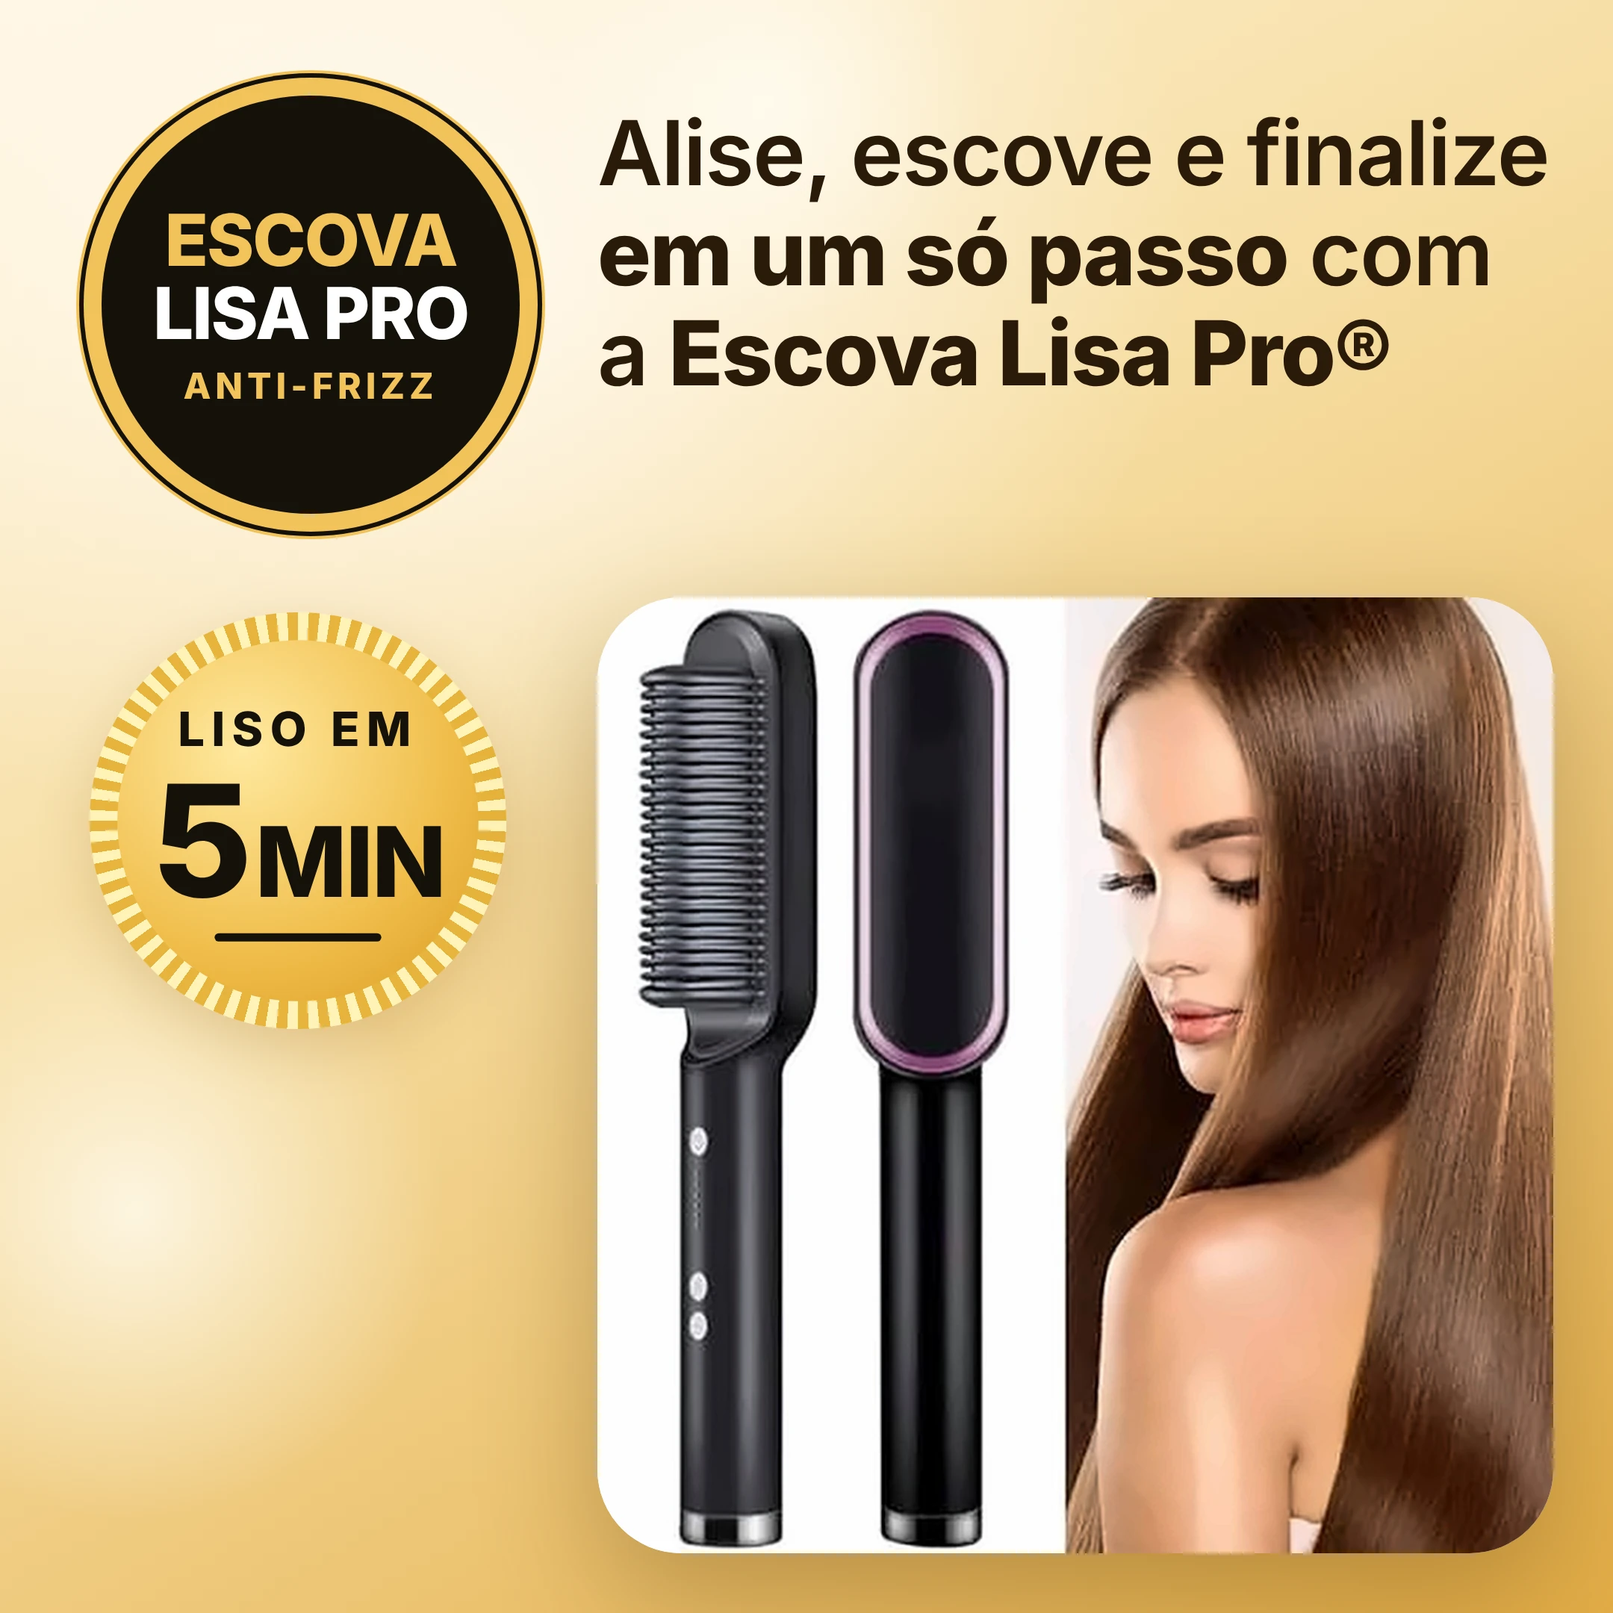
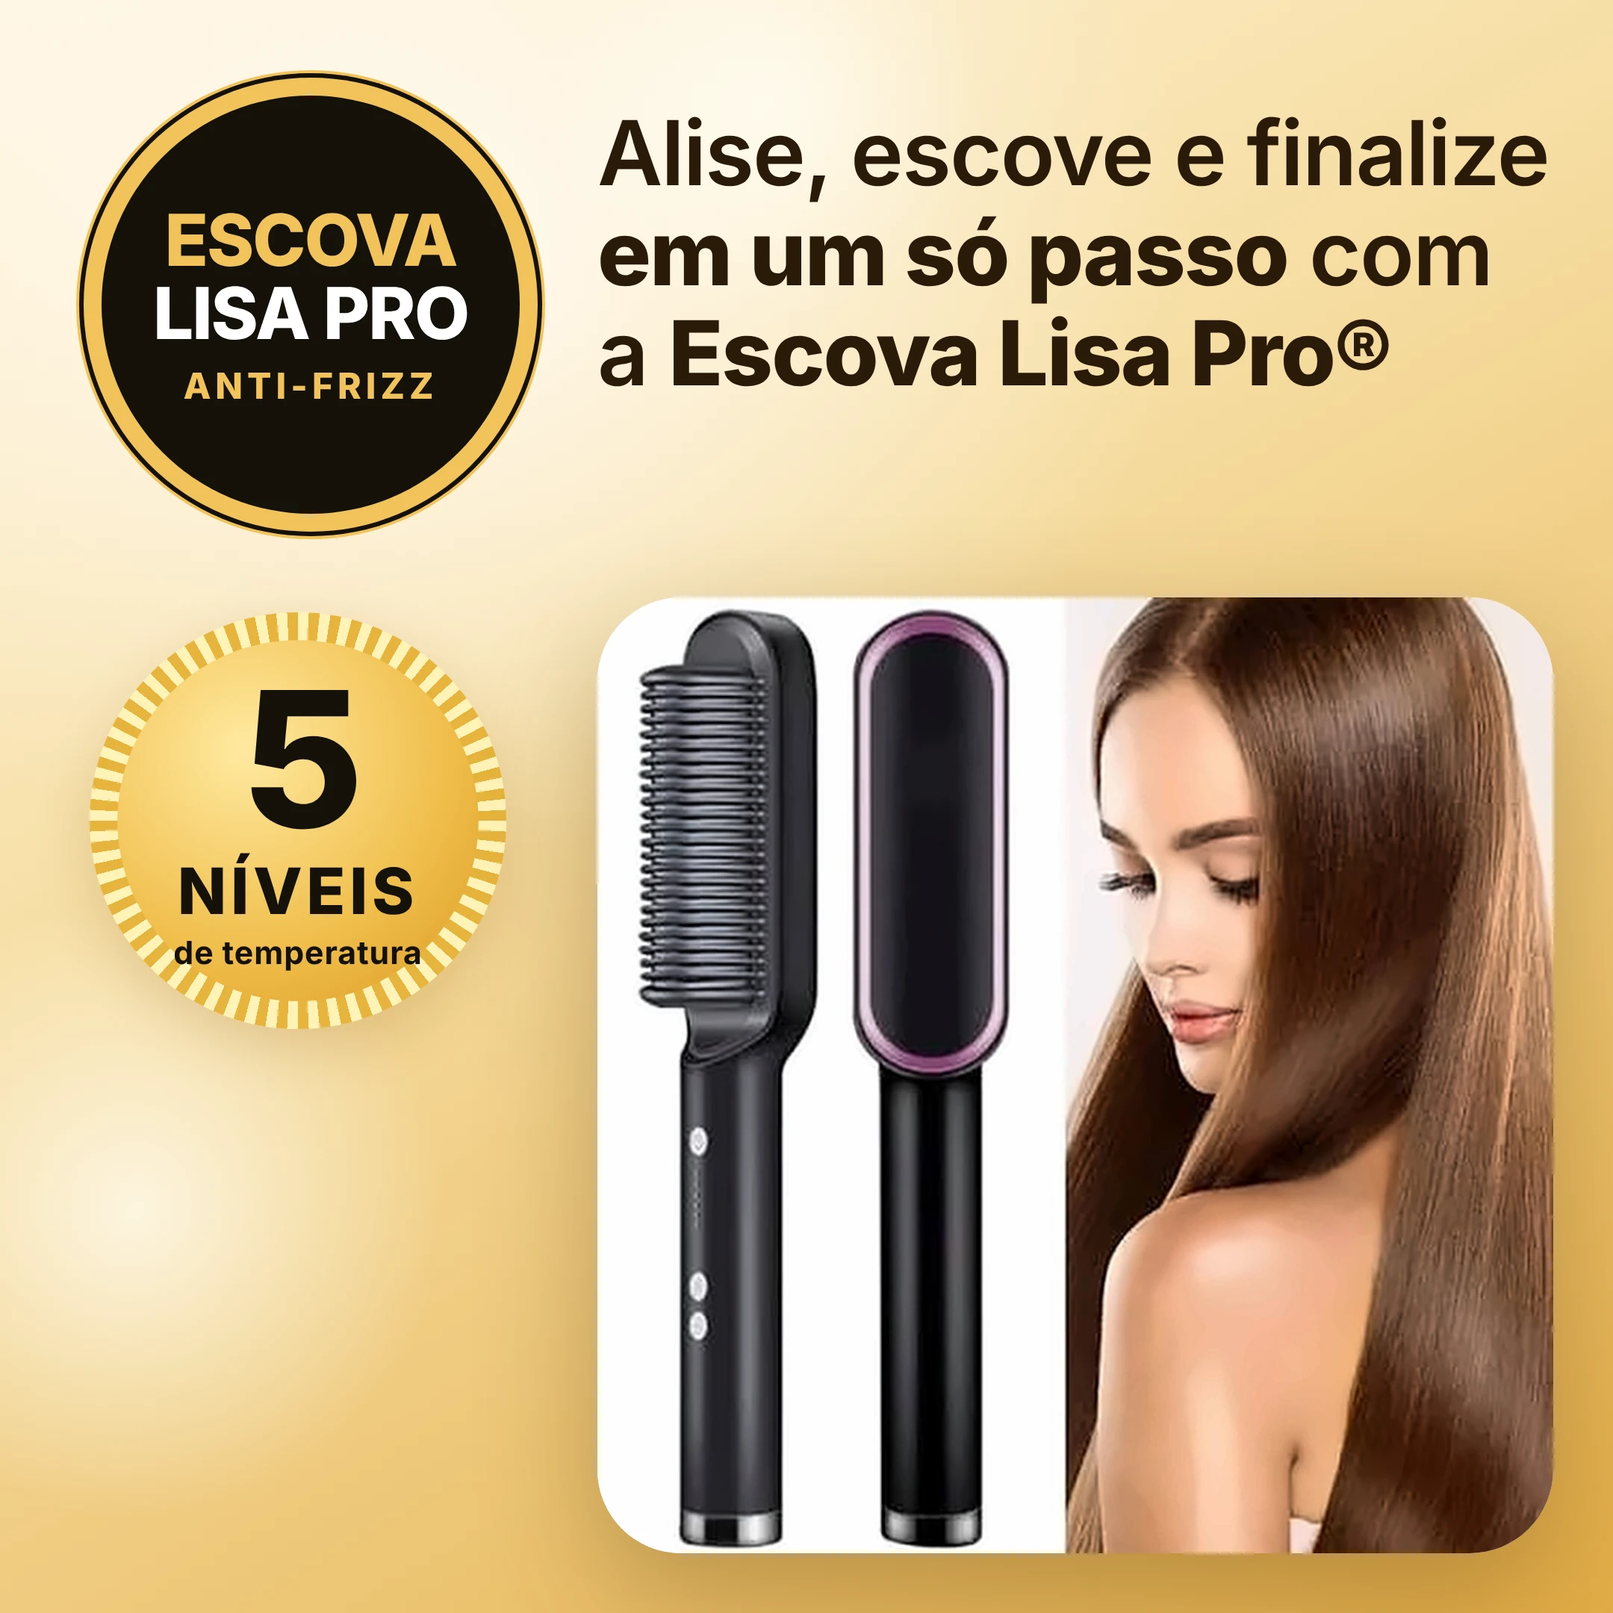
Selo da capa: 5 níveis de temperatura no lugar de liso em 5 min
Claude-Session: https://claude.ai/code/session_01KeLqAk6fDKmQByf4pKhdDU

Changed region(s): [[0.0931, 0.4032, 0.2792, 0.6204]]

diff --git a/index.html b/index.html
@@ -1,7 +1,7 @@
 <!doctype html>
-<html lang="pt-BR"><head><meta charset="utf-8"><meta name="viewport" content="width=device-width,initial-scale=1"><meta name="theme-color" content="#faf8f3"><title>Escova Lisa Pro | Escova Alisadora 5 em 1</title><meta name="description" content="Escova Alisadora 5 em 1: alisa, escova e finaliza em um só passo. 5 níveis de temperatura, bivolt automático e frete grátis. R$ 110,00."><link rel="stylesheet" href="styles.css?v=23"><link rel="preload" as="image" href="gallery-01.webp?v=23"><script src="data.js?v=23" defer></script><script src="app.js?v=23" defer></script></head>
+<html lang="pt-BR"><head><meta charset="utf-8"><meta name="viewport" content="width=device-width,initial-scale=1"><meta name="theme-color" content="#faf8f3"><title>Escova Lisa Pro | Escova Alisadora 5 em 1</title><meta name="description" content="Escova Alisadora 5 em 1: alisa, escova e finaliza em um só passo. 5 níveis de temperatura, bivolt automático e frete grátis. R$ 110,00."><link rel="stylesheet" href="styles.css?v=24"><link rel="preload" as="image" href="gallery-01.webp?v=24"><script src="data.js?v=24" defer></script><script src="app.js?v=24" defer></script></head>
 <body><div class="topbar">Alisa, escova e finaliza em um só passo</div><header class="header"><span class="header-note">Cabelo liso e macio<br>todos os dias</span></header>
-<main class="layout"><div class="left"><section class="gallery" aria-label="Imagens do produto"><div class="gallery-main is-cover"><img id="main-image" src="gallery-01.webp?v=23" alt="Escova Alisadora 5 em 1 — imagem principal" width="900" height="900" fetchpriority="high"><span class="gallery-label">ESCOVA LISA PRO</span><span class="cover-badge" id="cover-badge"><b>FRETE GRÁTIS</b><small>para todo o Brasil</small></span></div><div class="thumbnails"><button class="thumb" type="button" aria-label="Ver imagem 1" aria-pressed="true"><img src="gallery-01.webp?v=23" alt="Miniatura 1" width="1080" height="1080" decoding="async"></button><button class="thumb" type="button" aria-label="Ver imagem 2" aria-pressed="false"><img src="gallery-04.webp?v=23" alt="Miniatura 2" width="1080" height="1080" decoding="async"></button><button class="thumb" type="button" aria-label="Ver imagem 3" aria-pressed="false"><img src="gallery-02.webp?v=23" alt="Miniatura 3" width="1080" height="1080" decoding="async"></button><button class="thumb" type="button" aria-label="Ver imagem 4" aria-pressed="false"><img src="gallery-03.webp?v=23" alt="Miniatura 4" width="1080" height="1080" decoding="async"></button><button class="thumb" type="button" aria-label="Ver imagem 5" aria-pressed="false"><img src="gallery-05.webp?v=23" alt="Miniatura 5" width="1080" height="1080" decoding="async"></button><button class="thumb" type="button" aria-label="Ver imagem 6" aria-pressed="false"><img src="gallery-06.webp?v=23" alt="Miniatura 6" width="1080" height="1080" decoding="async"></button></div><p class="gallery-caption">Selecione uma imagem para conhecer os detalhes.</p></section>
-<section class="description" aria-labelledby="description-heading"><div class="section-heading"><div><span class="eyebrow">Conheça cada detalhe</span><h2 id="description-heading">Cabelo liso, sem complicação.</h2></div><span class="number" aria-hidden="true">01</span></div><div class="story"><figure><img src="banner-01.webp?v=23" width="2160" alt="Oferta Escova Alisadora 5 em 1" loading="lazy" decoding="async"></figure><figure class="has-seal"><img src="banner-02.webp?v=23" width="2160" alt="Cabelos lisos e impecáveis todos os dias" loading="lazy" decoding="async"><img class="seal-anim" src="seal-niveis.png?v=23" alt="" aria-hidden="true" style="left:59.815%;top:54.306%;width:25.741%" loading="lazy"></figure><figure><img src="banner-03.webp?v=23" width="2160" alt="Cabelos lisos em minutos" loading="lazy" decoding="async"></figure><figure><video id="produto-video" controls playsinline preload="metadata" poster="poster.jpg"><source src="video-escova.webm" type="video/webm"><source src="video-escova.mp4" type="video/mp4"></video></figure><figure class="reel"><video id="reel-video" controls playsinline preload="metadata" poster="poster-reel.jpg?v=23"><source src="video-reel.webm?v=23" type="video/webm"><source src="video-reel.mp4?v=23" type="video/mp4"></video></figure><figure><img src="banner-04.webp?v=23" width="2160" alt="Prática, potente e fácil de usar" loading="lazy" decoding="async"></figure><div class="mid-cta"><a class="cta" href="https://pay.kaiross.com.br/dmLbLVXUfgyq">COMPRAR AGORA</a><p>Frete grátis · R$ 110,00</p></div><figure class="has-seal"><img src="banner-05.webp?v=23" width="2160" alt="Funciona em todos os tipos de cabelo" loading="lazy" decoding="async"><img class="seal-anim" src="seal-bivolt.png?v=23" alt="" aria-hidden="true" style="left:72.315%;top:70.13%;width:22.037%" loading="lazy"></figure><figure><img src="banner-10.webp?v=23" width="2160" alt="Escova Lisa Pro" loading="lazy" decoding="async"></figure><figure><img src="banner-06.webp?v=23" width="2160" alt="Por que a Escova Lisa Pro é diferente" loading="lazy" decoding="async"></figure><figure><img src="banner-07.webp?v=23" width="2160" alt="Do cabelo bagunçado ao liso em minutos" loading="lazy" decoding="async"></figure><figure class="ba"><span class="ba-eyebrow">Antes e depois</span><h3>Do volume ao <b>liso</b></h3><div class="ba-grid"><img src="antes-depois-2.webp?v=23" width="1000" height="1000" alt="Antes e depois: cabelo cacheado alisado" loading="lazy" decoding="async"><img src="antes-depois-1.webp?v=23" width="1000" height="1000" alt="Antes e depois: cabelo ondulado alisado" loading="lazy" decoding="async"><img src="antes-depois-3.webp?v=23" width="1000" height="672" alt="Antes e depois: cabelo cacheado alisado" loading="lazy" decoding="async"></div></figure><div class="mid-cta"><a class="cta" href="https://pay.kaiross.com.br/dmLbLVXUfgyq">COMPRAR AGORA</a><p>Frete grátis · R$ 110,00</p></div><figure><img src="banner-08.webp?v=23" width="2160" alt="7 dias para trocas e devoluções" loading="lazy" decoding="async"></figure><figure><img src="banner-09.webp?v=23" width="2160" alt="Dúvidas frequentes e especificações" loading="lazy" decoding="async"></figure></div></section>
+<main class="layout"><div class="left"><section class="gallery" aria-label="Imagens do produto"><div class="gallery-main is-cover"><img id="main-image" src="gallery-01.webp?v=24" alt="Escova Alisadora 5 em 1 — imagem principal" width="900" height="900" fetchpriority="high"><span class="gallery-label">ESCOVA LISA PRO</span><span class="cover-badge" id="cover-badge"><b>FRETE GRÁTIS</b><small>para todo o Brasil</small></span></div><div class="thumbnails"><button class="thumb" type="button" aria-label="Ver imagem 1" aria-pressed="true"><img src="gallery-01.webp?v=24" alt="Miniatura 1" width="1080" height="1080" decoding="async"></button><button class="thumb" type="button" aria-label="Ver imagem 2" aria-pressed="false"><img src="gallery-04.webp?v=24" alt="Miniatura 2" width="1080" height="1080" decoding="async"></button><button class="thumb" type="button" aria-label="Ver imagem 3" aria-pressed="false"><img src="gallery-02.webp?v=24" alt="Miniatura 3" width="1080" height="1080" decoding="async"></button><button class="thumb" type="button" aria-label="Ver imagem 4" aria-pressed="false"><img src="gallery-03.webp?v=24" alt="Miniatura 4" width="1080" height="1080" decoding="async"></button><button class="thumb" type="button" aria-label="Ver imagem 5" aria-pressed="false"><img src="gallery-05.webp?v=24" alt="Miniatura 5" width="1080" height="1080" decoding="async"></button><button class="thumb" type="button" aria-label="Ver imagem 6" aria-pressed="false"><img src="gallery-06.webp?v=24" alt="Miniatura 6" width="1080" height="1080" decoding="async"></button></div><p class="gallery-caption">Selecione uma imagem para conhecer os detalhes.</p></section>
+<section class="description" aria-labelledby="description-heading"><div class="section-heading"><div><span class="eyebrow">Conheça cada detalhe</span><h2 id="description-heading">Cabelo liso, sem complicação.</h2></div><span class="number" aria-hidden="true">01</span></div><div class="story"><figure><img src="banner-01.webp?v=24" width="2160" alt="Oferta Escova Alisadora 5 em 1" loading="lazy" decoding="async"></figure><figure class="has-seal"><img src="banner-02.webp?v=24" width="2160" alt="Cabelos lisos e impecáveis todos os dias" loading="lazy" decoding="async"><img class="seal-anim" src="seal-niveis.png?v=24" alt="" aria-hidden="true" style="left:59.815%;top:54.306%;width:25.741%" loading="lazy"></figure><figure><img src="banner-03.webp?v=24" width="2160" alt="Cabelos lisos em minutos" loading="lazy" decoding="async"></figure><figure><video id="produto-video" controls playsinline preload="metadata" poster="poster.jpg"><source src="video-escova.webm" type="video/webm"><source src="video-escova.mp4" type="video/mp4"></video></figure><figure class="reel"><video id="reel-video" controls playsinline preload="metadata" poster="poster-reel.jpg?v=24"><source src="video-reel.webm?v=24" type="video/webm"><source src="video-reel.mp4?v=24" type="video/mp4"></video></figure><figure><img src="banner-04.webp?v=24" width="2160" alt="Prática, potente e fácil de usar" loading="lazy" decoding="async"></figure><div class="mid-cta"><a class="cta" href="https://pay.kaiross.com.br/dmLbLVXUfgyq">COMPRAR AGORA</a><p>Frete grátis · R$ 110,00</p></div><figure class="has-seal"><img src="banner-05.webp?v=24" width="2160" alt="Funciona em todos os tipos de cabelo" loading="lazy" decoding="async"><img class="seal-anim" src="seal-bivolt.png?v=24" alt="" aria-hidden="true" style="left:72.315%;top:70.13%;width:22.037%" loading="lazy"></figure><figure><img src="banner-10.webp?v=24" width="2160" alt="Escova Lisa Pro" loading="lazy" decoding="async"></figure><figure><img src="banner-06.webp?v=24" width="2160" alt="Por que a Escova Lisa Pro é diferente" loading="lazy" decoding="async"></figure><figure><img src="banner-07.webp?v=24" width="2160" alt="Do cabelo bagunçado ao liso em minutos" loading="lazy" decoding="async"></figure><figure class="ba"><span class="ba-eyebrow">Antes e depois</span><h3>Do volume ao <b>liso</b></h3><div class="ba-grid"><img src="antes-depois-2.webp?v=24" width="1000" height="1000" alt="Antes e depois: cabelo cacheado alisado" loading="lazy" decoding="async"><img src="antes-depois-1.webp?v=24" width="1000" height="1000" alt="Antes e depois: cabelo ondulado alisado" loading="lazy" decoding="async"><img src="antes-depois-3.webp?v=24" width="1000" height="672" alt="Antes e depois: cabelo cacheado alisado" loading="lazy" decoding="async"></div></figure><div class="mid-cta"><a class="cta" href="https://pay.kaiross.com.br/dmLbLVXUfgyq">COMPRAR AGORA</a><p>Frete grátis · R$ 110,00</p></div><figure><img src="banner-08.webp?v=24" width="2160" alt="7 dias para trocas e devoluções" loading="lazy" decoding="async"></figure><figure><img src="banner-09.webp?v=24" width="2160" alt="Dúvidas frequentes e especificações" loading="lazy" decoding="async"></figure></div></section>
 <section class="reviews" id="reviews" aria-labelledby="reviews-heading" hidden><div class="section-heading"><div><span class="eyebrow">Avaliações de clientes</span><h2 id="reviews-heading">Quem comprou, avaliou.</h2></div><div class="review-controls"><button type="button" class="arrow" id="previous-review" aria-label="Depoimento anterior">←</button><button type="button" class="arrow" id="next-review" aria-label="Próximo depoimento">→</button></div></div><p class="review-intro">Avaliações reais de clientes que compraram em nossa loja, sobre a entrega e a experiência de compra.</p><div class="review-grid" id="review-grid" tabindex="0" role="region" aria-label="Depoimentos de clientes" aria-roledescription="carrossel"></div><p class="review-status" id="review-status" aria-live="polite"></p></section><div class="closing"><p>Praticidade para ter o cabelo liso todos os dias.</p><a class="cta" href="https://pay.kaiross.com.br/dmLbLVXUfgyq">COMPRAR AGORA</a></div><div class="bottom">Escova Lisa Pro · Escova Alisadora 5 em 1<div class="foot-links"><a href="trocas-e-devolucoes.html">Trocas e devoluções</a> · <a href="politica-de-privacidade.html">Política de privacidade</a> · <a href="mailto:idemararruda@gmail.com">E-mail</a> · <a href="https://wa.me/5511977290603?text=Oi!%20Tenho%20uma%20d%C3%BAvida%20sobre%20a%20Escova%20Lisa%20Pro" target="_blank" rel="noopener">WhatsApp</a></div><div class="foot-safe">🔒 Site protegido (HTTPS) · Pagamento seguro · Atendimento: idemararruda@gmail.com · WhatsApp (11) 97729-0603</div></div></div>
 <aside class="offer" aria-label="Oferta da escova alisadora"><div class="offer-top"><span class="offer-tag">SUA NOVA ALIADA</span></div><h1>Escova Alisadora<br>5 em 1<span>Escova Lisa Pro</span></h1><p class="offer-copy">Alisa e escova em um único movimento, com 5 níveis de temperatura e bivolt automático. Praticidade em casa e em viagens.</p><div class="price-box"><div class="price-label">Preço especial</div><div class="price-old">De R$ 126,50</div><div class="price"><small>R$</small> 110,00</div><div class="payment">Sua Escova Lisa Pro, pronta para acompanhar você.</div></div><a class="cta" href="https://pay.kaiross.com.br/dmLbLVXUfgyq">COMPRAR AGORA</a><p class="shipping"><span aria-hidden="true">✓</span> Frete grátis para todo o Brasil</p><p class="wa-help"><a href="https://wa.me/5511977290603?text=Oi!%20Tenho%20uma%20d%C3%BAvida%20sobre%20a%20Escova%20Lisa%20Pro" target="_blank" rel="noopener">Dúvidas? Fale com a gente no WhatsApp</a></p><div class="offer-benefits"><div class="benefit"><svg viewBox="0 0 24 24" fill="none" stroke="currentColor" stroke-width="1.5" aria-hidden="true"><path d="M3 6h11v11H3zM14 10h4l3 4v3h-7"/><circle cx="7" cy="18" r="2"/><circle cx="18" cy="18" r="2"/></svg><strong>Envio de 2 a 5 dias</strong>Praticidade desde a compra</div><div class="benefit"><svg viewBox="0 0 24 24" fill="none" stroke="currentColor" stroke-width="1.5" aria-hidden="true"><path d="M12 3l8 3v6c0 5-8 9-8 9s-8-4-8-9V6zM8 12l3 3 5-6"/></svg><strong>Garantia em nossa loja</strong>7 dias para trocas e devoluções</div></div></aside></main><div class="sticky-buy" aria-label="Comprar"><div><s>R$ 126,50</s><strong>R$ 110,00</strong></div><a class="cta" href="https://pay.kaiross.com.br/dmLbLVXUfgyq">COMPRAR AGORA</a></div></body></html>

diff --git a/data.js b/data.js
@@ -1,1 +1,1 @@
-window.pageData={"gallery":[{"file":"gallery-01.webp?v=23","width":1080,"height":1080},{"file":"gallery-04.webp?v=23","width":1080,"height":1080},{"file":"gallery-02.webp?v=23","width":1080,"height":1080},{"file":"gallery-03.webp?v=23","width":1080,"height":1080},{"file":"gallery-05.webp?v=23","width":1080,"height":1080},{"file":"gallery-06.webp?v=23","width":1080,"height":1080}],"reviews":[{"name": "Luciano Monteiro", "rating": 4, "text": "Fico muito contente de saber que a loja é confiável. Estava com receio de comprar mas valeu muito apena! brigadaoo tmj!"}, {"name": "Maria Galvão", "rating": 5, "text": "Muito bom, o produto chegou antes do previsto e exatamente como mostrado no site.. Bom msm.."}, {"name": "Raiam Maldonado", "rating": 5, "text": "Pedido chegou ok, bem embalado, o que pedi e no prazo que deram"}, {"name": "Heitor Alvim", "rating": 5, "text": "Conheci a loja através de amigos que me recomendaram, preço acessível, qualidade e transparencia nas informações é boa. O produto é magnifico"}, {"name": "Bianca Nunes", "rating": 5, "text": "Pr Estou mega satisfeita. Esperava qualidade mas isso me surpreendeu.. Mt mt bom!"}, {"name": "Gael Ourique", "rating": 5, "text": "Uau, assim que chegou vim escrever um comentário. Prazo de entrega rápido, muito legal, muito igual ao anuncio"}, {"name": "Gabrielle Silva", "rating": 4, "text": "Gostaria agradecer pelo produto de qualidade que recebi. Muito bom. Passando também para pontuar a eficiência na entrega. Que Deus os abençoe hj e sempre."}, {"name": "Natasha Maia", "rating": 5, "text": "Muito dez!"}, {"name": "Susane Goulart", "rating": 5, "text": "A entrega foi muito rápidA e amei super recomendo... até a próxima, pois vou comprar de novo😅😁 Parabéns essa loja sensacional 👏👏"}]};
+window.pageData={"gallery":[{"file":"gallery-01.webp?v=24","width":1080,"height":1080},{"file":"gallery-04.webp?v=24","width":1080,"height":1080},{"file":"gallery-02.webp?v=24","width":1080,"height":1080},{"file":"gallery-03.webp?v=24","width":1080,"height":1080},{"file":"gallery-05.webp?v=24","width":1080,"height":1080},{"file":"gallery-06.webp?v=24","width":1080,"height":1080}],"reviews":[{"name": "Luciano Monteiro", "rating": 4, "text": "Fico muito contente de saber que a loja é confiável. Estava com receio de comprar mas valeu muito apena! brigadaoo tmj!"}, {"name": "Maria Galvão", "rating": 5, "text": "Muito bom, o produto chegou antes do previsto e exatamente como mostrado no site.. Bom msm.."}, {"name": "Raiam Maldonado", "rating": 5, "text": "Pedido chegou ok, bem embalado, o que pedi e no prazo que deram"}, {"name": "Heitor Alvim", "rating": 5, "text": "Conheci a loja através de amigos que me recomendaram, preço acessível, qualidade e transparencia nas informações é boa. O produto é magnifico"}, {"name": "Bianca Nunes", "rating": 5, "text": "Pr Estou mega satisfeita. Esperava qualidade mas isso me surpreendeu.. Mt mt bom!"}, {"name": "Gael Ourique", "rating": 5, "text": "Uau, assim que chegou vim escrever um comentário. Prazo de entrega rápido, muito legal, muito igual ao anuncio"}, {"name": "Gabrielle Silva", "rating": 4, "text": "Gostaria agradecer pelo produto de qualidade que recebi. Muito bom. Passando também para pontuar a eficiência na entrega. Que Deus os abençoe hj e sempre."}, {"name": "Natasha Maia", "rating": 5, "text": "Muito dez!"}, {"name": "Susane Goulart", "rating": 5, "text": "A entrega foi muito rápidA e amei super recomendo... até a próxima, pois vou comprar de novo😅😁 Parabéns essa loja sensacional 👏👏"}]};
